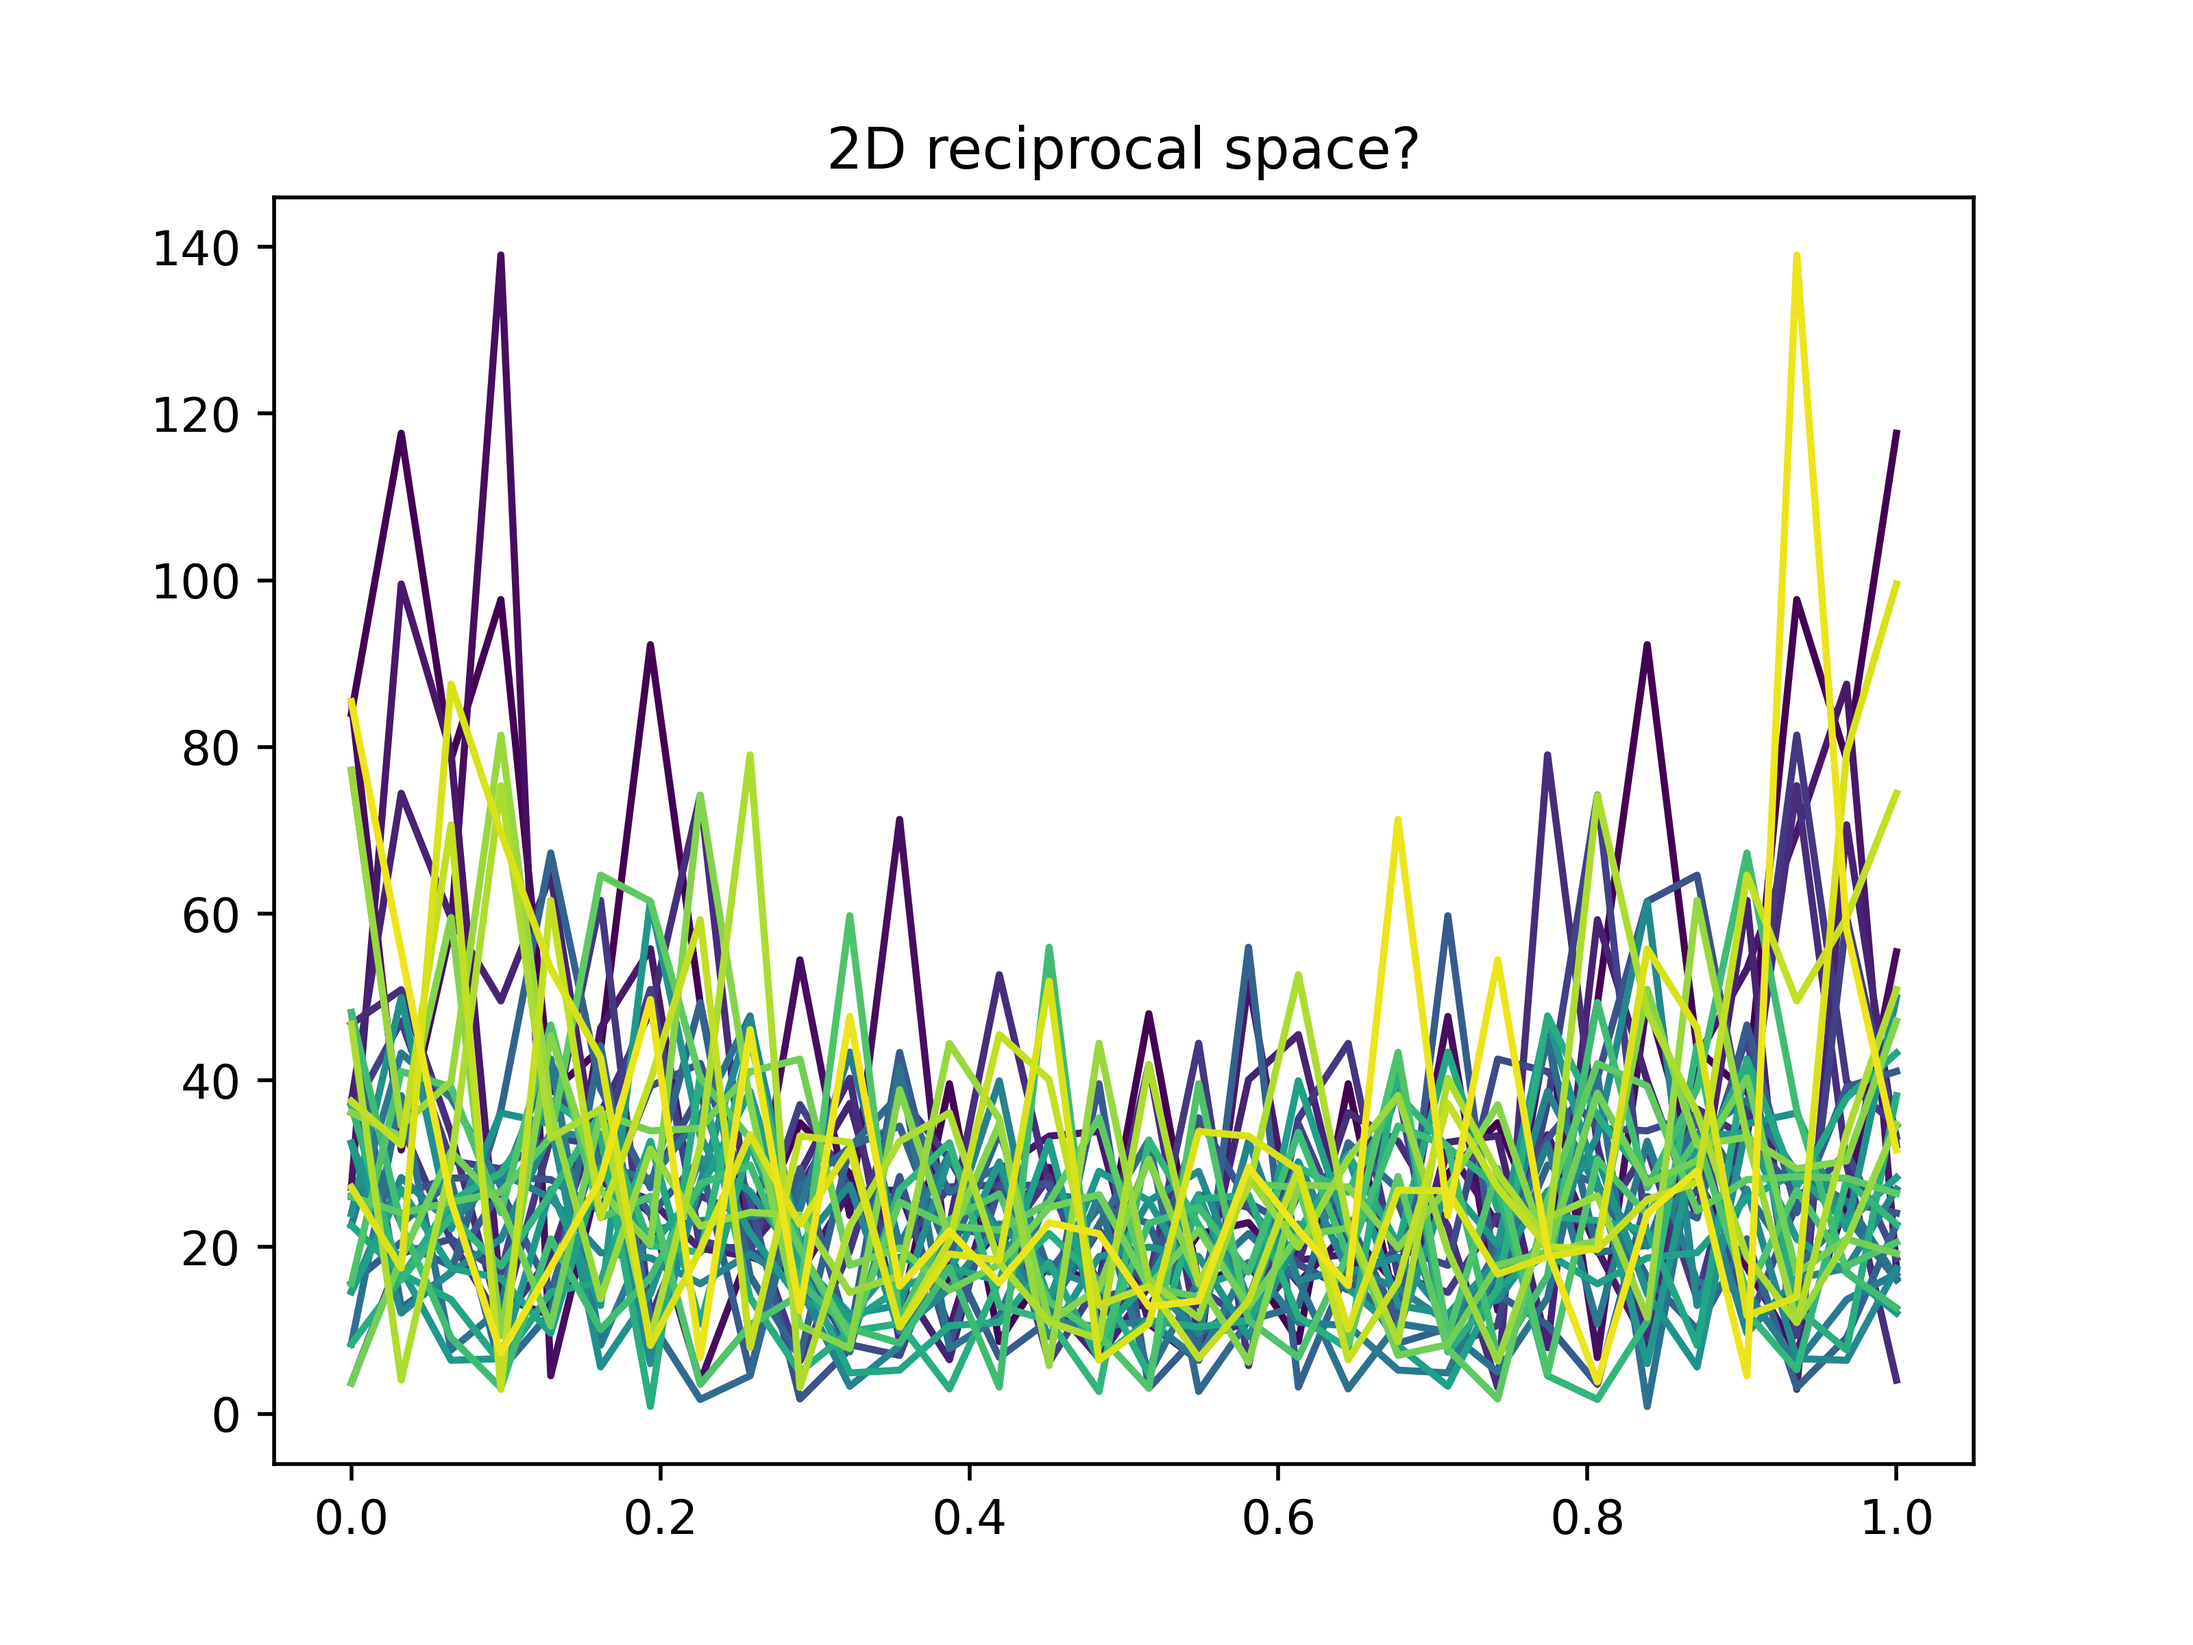
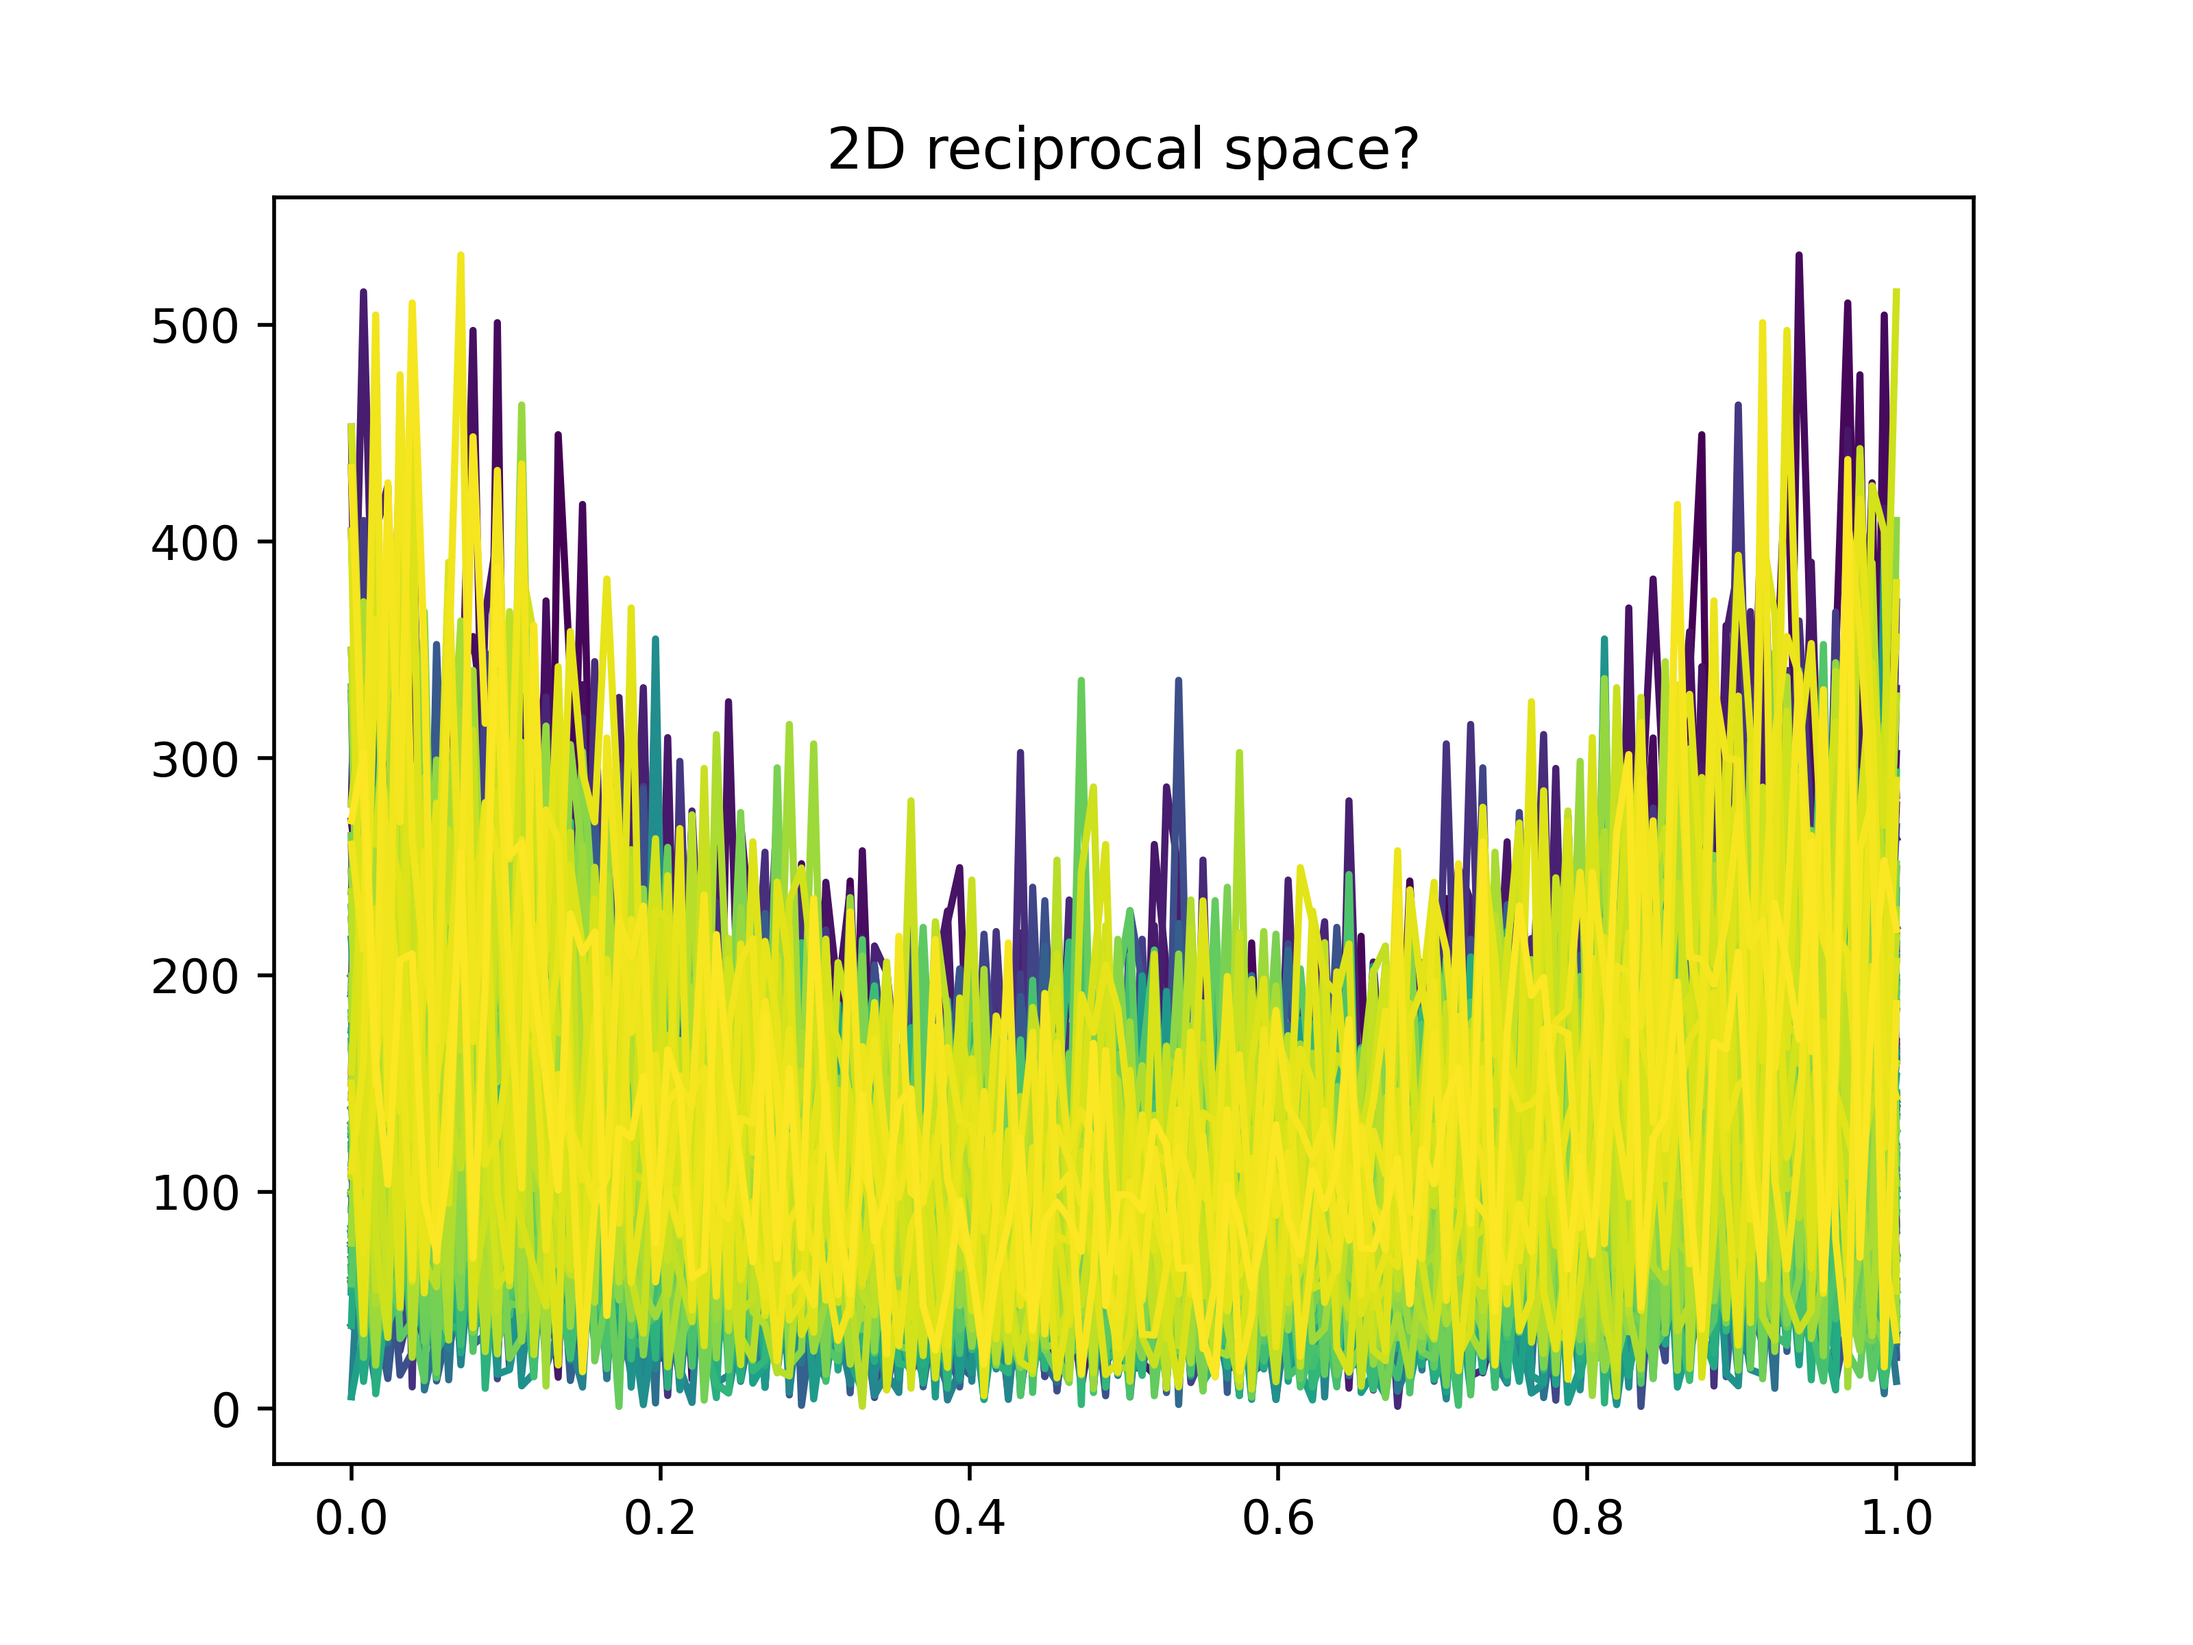
fourier plot

diff --git a/plotting/fourierSweepPlot.py b/plotting/fourierSweepPlot.py
@@ -1,0 +1,89 @@
+import numpy as np
+import matplotlib.pyplot as plt
+import matplotlib.cm as cm
+import matplotlib.colors as mcolors
+
+from scipy.optimize import curve_fit
+
+
+data = np.genfromtxt("output/fourier_sweep_output.csv", delimiter=",", skip_header=1)
+
+print("hej")
+
+plotdata = data[31,5:-1]
+#plotdata[0] = 0
+print(plotdata)
+print(plotdata.shape)
+
+N = np.sqrt(len(plotdata))
+plotdata2D = np.split(plotdata, len(plotdata)//N)
+plotdatawrapped = np.fft.fftshift(plotdata2D)
+
+cmap = cm.viridis
+
+
+plotdatamidt = plotdatawrapped[len(plotdatawrapped)//2]
+X = np.arange(-len(plotdatawrapped)//2, len(plotdatawrapped)//2)
+
+#cauchy function for fitting
+def cauchy(x, x0, gamma, A):
+    return A * (gamma**2 / ((x - x0)**2 + gamma**2))
+# Fit the Cauchy function to the data
+popt, pcov = curve_fit(cauchy, X, plotdatamidt, p0=[0, 10, max(plotdatamidt)], bounds=([-np.inf, 0, 0], [np.inf, np.inf, np.inf]))
+x0_fit, gamma_fit, A_fit = popt
+print(f"Fitted parameters: x0 = {x0_fit}, gamma = {gamma_fit}, A = {A_fit}")
+
+#cauchy with offset
+def cauchy_offset(x, x0, gamma, A, offset):
+    return A * (gamma**2 / ((x - x0)**2 + gamma**2)) + offset
+# Fit the Cauchy function with offset to the data
+popt_offset, pcov_offset = curve_fit(cauchy_offset, X, plotdatamidt, p0=[0, 10, max(plotdatamidt), min(plotdatamidt)], bounds=([-np.inf, 0, 0, -np.inf], [np.inf, np.inf, np.inf, np.inf]))
+x0_fit_offset, gamma_fit_offset, A_fit_offset, offset_fit = popt_offset
+print(f"Fitted parameters with offset: x0 = {x0_fit_offset}, gamma = {gamma_fit_offset}, A = {A_fit_offset}, offset = {offset_fit}")
+
+# Plot the data and the fitted curve
+#plt.plot(X, plotdatamidt, 'o', label='Data')
+
+
+plt.ylim(0, 750)
+plt.xlabel("k")
+plt.ylabel("Fourier Transform")
+plt.title("Fourier Transform at B = 0.0, T = 2.8")
+plt.plot(X,plotdatamidt, '.-', label="Simulation")
+
+plt.plot(X, cauchy(X, x0_fit, gamma_fit, A_fit), '-', label='Cauchy fit')
+plt.plot(X, cauchy_offset(X, x0_fit_offset, gamma_fit_offset, A_fit_offset, offset_fit), '-', label='Cauchy fit + offset', color='purple')
+
+
+plt.grid()
+plt.legend()
+plt.savefig("fourierpeak.png", dpi=500)
+
+
+
+
+
+
+
+
+
+
+'''
+
+# Plot heatmap: 
+fig, ax = plt.subplots(figsize=(N, N))
+im = ax.imshow(plotdatawrapped, origin='lower', aspect='auto', cmap=cmap)
+
+# set ticks to the unique values
+#ax.set_xticks(np.arange(len(B_unique)))
+#ax.set_xticklabels([str(x) for x in B_unique], rotation=45)
+#ax.set_yticks(np.arange(len(temperatures_unique)))
+#ax.set_yticklabels([str(x) for x in temperatures_unique])
+
+ax.set_xlabel(r"$k_x$")
+ax.set_ylabel(r"$k_y$")
+ax.set_title("2D Fourier Transform Heatmap")
+fig.colorbar(im, ax=ax, label="norm of Fourier Transform")
+plt.tight_layout()
+plt.savefig('fourier_heatmap.png', dpi=300)
+'''

diff --git a/simulations/FourierSweep.cpp b/simulations/FourierSweep.cpp
@@ -23,11 +23,11 @@ int main()
         {
             MCParameters params;
             params.latticeType = LatticeType::FunkySquare;
-            params.size = 20;
+            params.size = 128;
             params.temperature = T;
             params.B = B;
-            params.totalStepCount = 1e6;
-            params.measurementInterval = 1'000;
+            params.totalStepCount = 1e9;
+            params.measurementInterval = 100'000;
             params.randomize = true;
             params.printProgress = false;
             paramsList.push_back(params);
@@ -44,7 +44,6 @@ int main()
         outFile << paramsList[i].B << ",";
         outFile << paramsList[i].totalStepCount << ",";
         outFile << paramsList[i].measurementInterval<< ",";
-        outFile << "PARAMS_END"<< ",";
 
         for (const double &m : allMeasurements[i])
         {

diff --git a/plotting/fourierPlot.py b/plotting/fourierPlot.py
@@ -4,8 +4,8 @@ import matplotlib.cm as cm
 import matplotlib.colors as mcolors
 
 
-data = np.loadtxt("output/fourier_output.csv", delimiter=" ", skiprows=0)
-data2D = np.array(np.split(data, len(data)//32))
+data = np.loadtxt("output/fourier_output.csv", delimiter=" ", skiprows=1)
+data2D = np.array(np.split(data, len(data)//128))
 print(data,data2D)
 
 norms = np.sqrt(data[:, 0]**2 + data[:, 1]**2)
